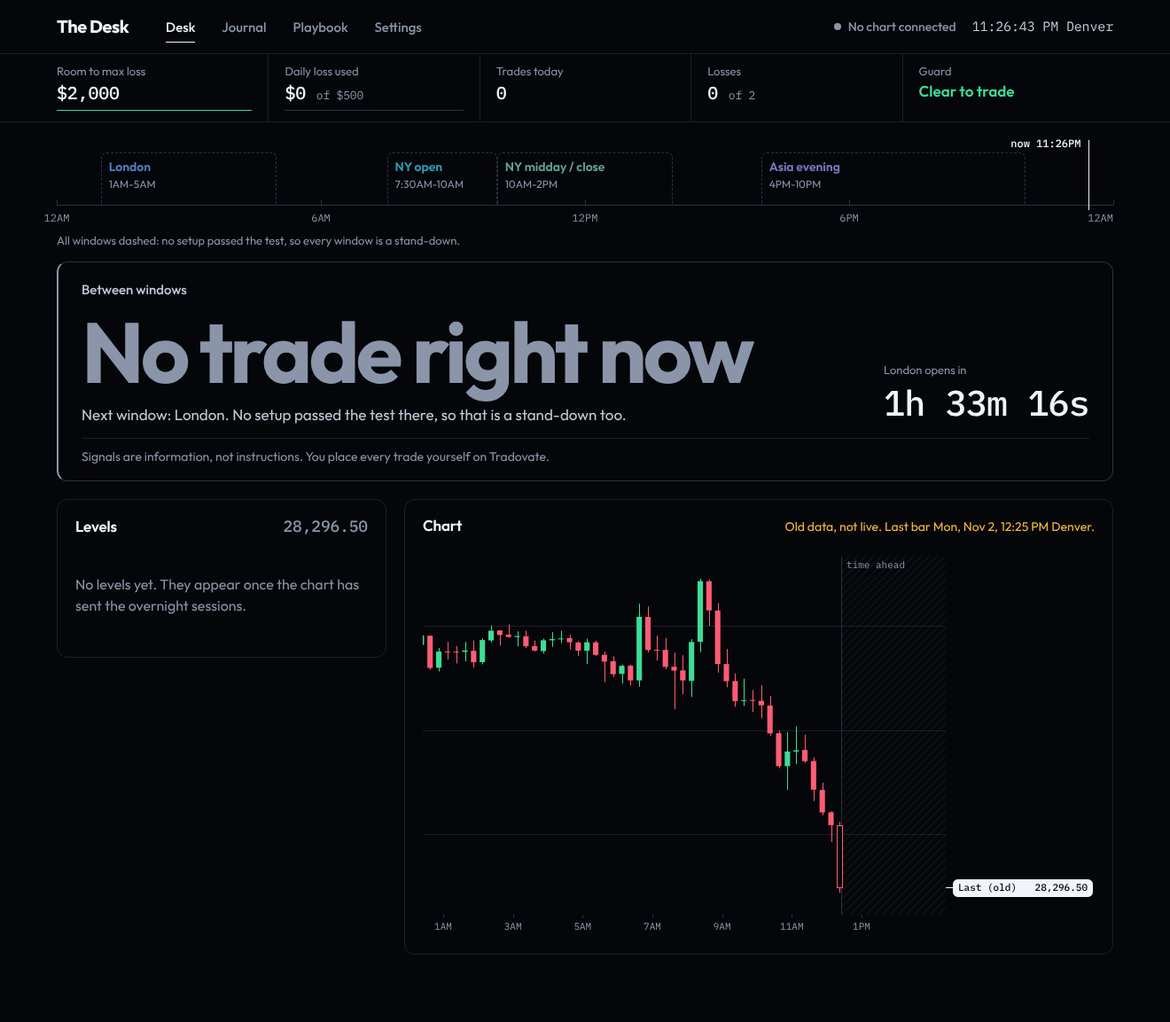
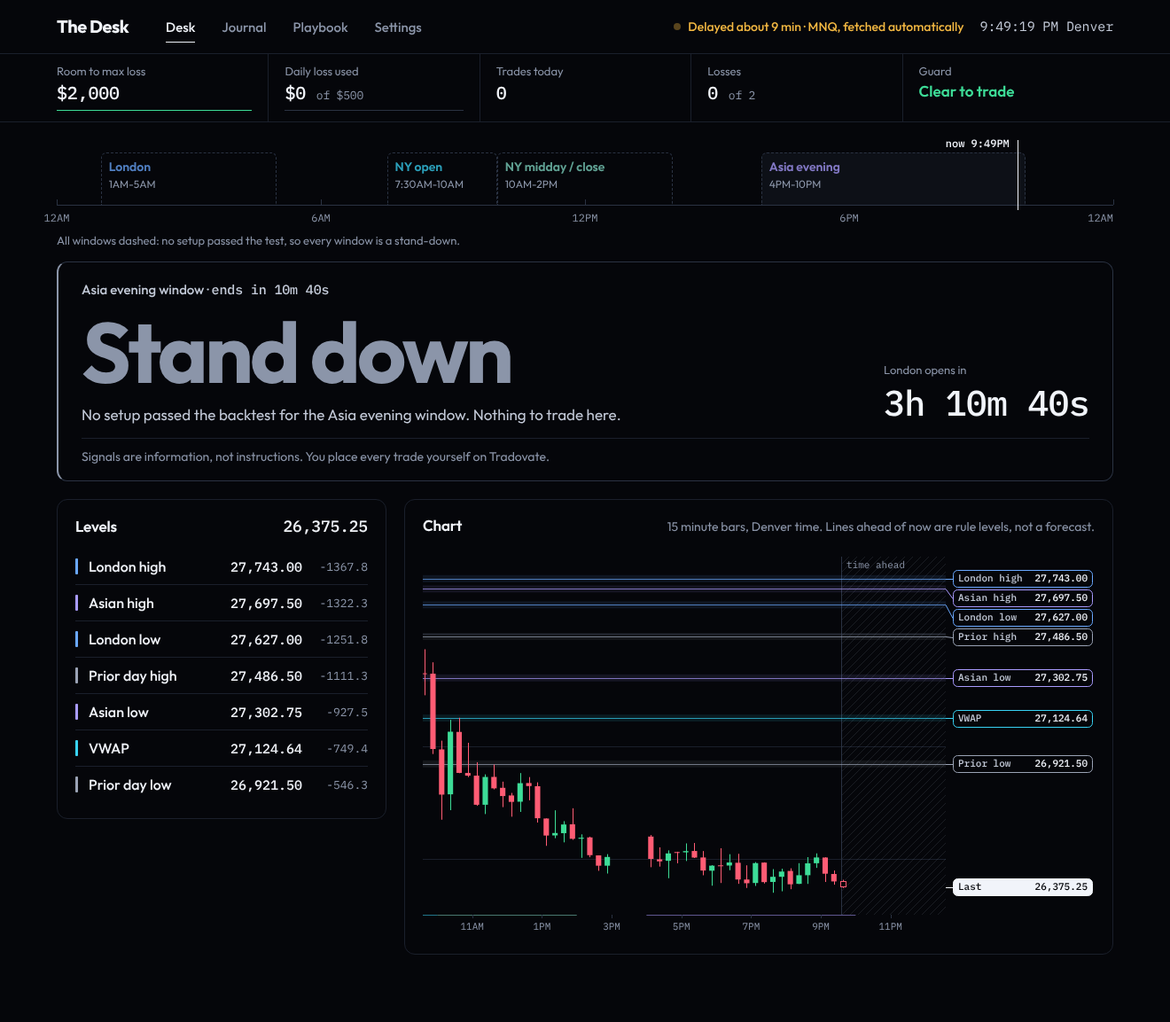
Built-in delayed price feed so The Desk runs without a chart tab
Claude-Session: https://claude.ai/code/session_01BPRsV9kxs9ZyitC2BtWsTR

diff --git a/server/index.js b/server/index.js
@@ -11,6 +11,9 @@ import { loadVerdicts } from './verdicts.js';
 import { computeGuard, checkTrade, defaultSettings, PLANS } from './guard.js';
 import { demoInput, SCENARIOS } from './demo.js';
 import { WINDOWS } from './sessions.js';
+import { fetchYahoo, YAHOO_SYMBOL } from './yahoo.js';
+
+const BRIDGE_QUIET = 180000; // the chart tab has been silent this long: fetch prices ourselves
 
 const root = path.dirname(path.dirname(fileURLToPath(import.meta.url)));
 /** Reads a saved file. A missing file is normal (first run). A file that exists but cannot be read is a problem to report, never to paper over. */
@@ -23,10 +26,10 @@ const num = (v) => (v === '' || v == null ? NaN : Number(v));
 /** Settings on disk merged over the defaults, so a new field never breaks an old file. */
 function mergeSettings(saved) {
   const d = defaultSettings(), s = saved || {};
-  return { account: { ...d.account, ...(s.account || {}), dll: { ...d.account.dll, ...(s.account?.dll || {}) } }, personal: { ...d.personal, ...(s.personal || {}) }, instrument: d.instrument };
+  return { account: { ...d.account, ...(s.account || {}), dll: { ...d.account.dll, ...(s.account?.dll || {}) } }, personal: { ...d.personal, ...(s.personal || {}) }, instrument: d.instrument, feed: { auto: s.feed?.auto !== false } };
 }
 
-export function createApp({ dataDir = path.join(root, 'data'), clock = () => Date.now() } = {}) {
+export function createApp({ dataDir = path.join(root, 'data'), clock = () => Date.now(), fetchImpl = fetch } = {}) {
   fs.mkdirSync(dataDir, { recursive: true });
   const FILES = { settings: path.join(dataDir, 'settings.json'), bars: path.join(dataDir, 'bars.json'), journal: path.join(dataDir, 'journal.json') };
   // Write to a side file first, then swap it in, so a crash mid-save cannot leave half a journal.
@@ -40,7 +43,21 @@ export function createApp({ dataDir = path.join(root, 'data'), clock = () => Dat
   const refuse = (res) => res.status(409).json({ error: `${problem()} Nothing was saved, so the file is not overwritten. Fix or move the file, then restart The Desk.` });
   const store = new BarStore();
   store.load(readSaved(FILES.bars).value);
-  const feed = { symbol: null, lastPost: 0, lastChange: 0, lastSig: '', error: null };
+  const feed = { symbol: null, source: null, lastPost: 0, lastBridge: 0, lastChange: 0, lastSig: '', error: null, fetchError: null, nextTry: 0 };
+  const noteChange = () => { const last = store.last(), sig = last ? [last.t, last.o, last.h, last.l, last.c, last.v].join() : ''; if (sig !== feed.lastSig) { feed.lastSig = sig; feed.lastChange = clock(); } };
+
+  // No chart tab feeding us? Fetch delayed MNQ bars ourselves. An open chart tab always wins.
+  async function pollPrices() {
+    const now = clock();
+    if (!settings.feed.auto || now - feed.lastBridge < BRIDGE_QUIET || now < feed.nextTry) return;
+    const first = feed.source !== 'yahoo';
+    const got = await fetchYahoo(first ? '1mo' : '1d', fetchImpl);
+    if (clock() - feed.lastBridge < BRIDGE_QUIET) return; // the chart came back while we were fetching
+    if (got.error) { feed.fetchError = got.error; feed.nextTry = clock() + 45000; return; }
+    if (feed.symbol !== YAHOO_SYMBOL) store.clear();       // never mix two sources in the levels
+    Object.assign(feed, { symbol: YAHOO_SYMBOL, source: 'yahoo', lastPost: clock(), error: null, fetchError: null });
+    store.ingest(got.rows, 5, clock()); noteChange();
+  }
   let verdicts = loadVerdicts();
 
   const app = express();
@@ -53,13 +70,12 @@ export function createApp({ dataDir = path.join(root, 'data'), clock = () => Dat
     if (!Array.isArray(bars)) return res.status(400).json({ error: 'Expected a bars array.' });
     const sym = String(symbol || '');
     if (feed.symbol && sym !== feed.symbol) store.clear(); // another contract: its prices must not mix into the levels
-    feed.lastPost = clock(); feed.symbol = sym;
+    feed.lastPost = feed.lastBridge = clock(); feed.symbol = sym; feed.source = 'chart'; feed.fetchError = null;
     if (!(resMin >= 1 && resMin <= 15 && 15 % resMin === 0)) feed.error = `Set the TradingView chart to 5 minutes (it is on "${resolution}").`;
     else if (!/NQ/i.test(feed.symbol)) feed.error = `The chart shows ${feed.symbol || 'another symbol'}. Switch it to MNQ1!.`;
     else {
       feed.error = null; store.ingest(bars, resMin, clock());
-      const last = store.last(), sig = last ? [last.t, last.o, last.h, last.l, last.c, last.v].join() : '';
-      if (sig !== feed.lastSig) { feed.lastSig = sig; feed.lastChange = clock(); } // the chart is moving
+      noteChange(); // the chart is moving
     }
     res.json({ ok: !feed.error, error: feed.error });
   });
@@ -94,6 +110,7 @@ export function createApp({ dataDir = path.join(root, 'data'), clock = () => Dat
     if (a.consistencyPct !== undefined) { const v = a.consistencyPct === null || a.consistencyPct === '' ? null : num(a.consistencyPct); if (v !== null && !(v > 0 && v <= 100)) return res.status(400).json({ error: 'Consistency must be a percent from 1 to 100, or empty for none.' }); next.account.consistencyPct = v; }
     if (a.payoutRequested != null) next.account.payoutRequested = !!a.payoutRequested;
     if (a.cycleStart !== undefined) next.account.cycleStart = /^\d{4}-\d{2}-\d{2}$/.test(a.cycleStart || '') ? a.cycleStart : null;
+    if (b.feed?.auto != null) next.feed.auto = !!b.feed.auto;
     for (const [k, label] of [['riskPerTrade', 'Risk per trade'], ['dailyStop', 'Daily stop']]) if (p[k] != null) { const v = num(p[k]); if (!(v > 0)) return res.status(400).json({ error: `${label} must be a dollar amount above zero.` }); next.personal[k] = v; }
     if (p.maxLossesPerDay != null) { const v = num(p.maxLossesPerDay); if (!(Number.isInteger(v) && v >= 1)) return res.status(400).json({ error: 'Losses per day must be a whole number, 1 or more.' }); next.personal.maxLossesPerDay = v; }
     Object.assign(settings, next); save('settings', settings);
@@ -137,15 +154,16 @@ export function createApp({ dataDir = path.join(root, 'data'), clock = () => Dat
   app.use(express.static(path.join(root, 'public')));
 
   const persistBars = () => { try { store.prune(); save('bars', store.toJSON()); } catch { /* disk hiccup: try again next minute */ } };
-  return { app, persistBars, store, journal, settings };
+  return { app, persistBars, pollPrices, store, journal, settings };
 }
 
 if (process.argv[1] === fileURLToPath(import.meta.url)) {
   const PORT = Number(process.env.PORT) || 3000;
-  const { app, persistBars } = createApp();
+  const { app, persistBars, pollPrices } = createApp();
   setInterval(persistBars, 60000).unref();
+  pollPrices(); setInterval(pollPrices, 15000).unref();
   app.listen(PORT, () => {
     console.log(`The Desk is running at http://localhost:${PORT}`);
-    console.log('Keep this window open. Open your TradingView chart (MNQ1!, 5 minutes) in your browser with the bridge extension on.');
+    console.log('Keep this window open. Prices are fetched automatically (about 10 minutes delayed). An open TradingView chart with the bridge extension is used instead when there is one.');
   });
 }

diff --git a/server/desk.js b/server/desk.js
@@ -13,17 +13,22 @@ const FROZEN_AFTER = 180000; // posts keep coming but the newest bar has not cha
 const RANK = { 'in-trade': 5, armed: 4, watching: 3, done: 2, waiting: 1, 'no-data': 0 };
 
 function feedState(now, store, feed) {
+  const source = feed?.source || null, auto = source === 'yahoo';
+  return { ...feedCore(now, store, feed, auto), source };
+}
+function feedCore(now, store, feed, auto) {
   const lastBarT = store?.lastRawT || 0, symbol = feed?.symbol || null;
-  if (!feed?.lastPost) return { status: 'off', label: 'No chart connected', symbol, delayed: false, lastBarT, error: feed?.error || null };
+  if (!feed?.lastPost) return { status: 'off', label: feed?.fetchError || 'No prices yet', symbol, delayed: false, lastBarT, error: feed?.error || null };
   const age = now - feed.lastPost;
   if (feed.error) return { status: 'error', label: feed.error, symbol, delayed: false, lastBarT, error: feed.error };
-  if (age > STALE_AFTER) return { status: 'stale', label: `Feed stalled ${age > 120000 ? Math.round(age / 60000) + ' min' : Math.round(age / 1000) + ' s'} ago`, symbol, delayed: false, lastBarT, ageSec: Math.round(age / 1000), error: null };
-  if (feed.lastChange && now - feed.lastChange > FROZEN_AFTER) return { status: 'stale', label: `Chart frozen: no change for ${Math.round((now - feed.lastChange) / MIN)} min`, symbol, delayed: false, lastBarT, ageSec: Math.round(age / 1000), error: null };
-  // The chart is connected but has sent no new bar for a long time: market shut, or the tab went to sleep.
+  if (age > (auto ? 45000 : STALE_AFTER)) return { status: 'stale', label: `Feed stalled ${age > 120000 ? Math.round(age / 60000) + ' min' : Math.round(age / 1000) + ' s'} ago`, symbol, delayed: false, lastBarT, ageSec: Math.round(age / 1000), error: null };
+  // The fetched feed only moves when a delayed bar updates, so give it longer before calling it frozen.
+  if (feed.lastChange && now - feed.lastChange > (auto ? 3 * FROZEN_AFTER : FROZEN_AFTER)) return { status: 'stale', label: `Prices frozen: no change for ${Math.round((now - feed.lastChange) / MIN)} min`, symbol, delayed: false, lastBarT, ageSec: Math.round(age / 1000), error: null };
+  // Connected but no new bar for a long time: market shut, or the tab went to sleep.
   if (lastBarT && now - lastBarT > 45 * MIN) return { status: 'stale', label: `No new bars for ${Math.round((now - lastBarT) / 36e5) >= 2 ? Math.round((now - lastBarT) / 36e5) + ' hours' : Math.round((now - lastBarT) / MIN) + ' min'}`, symbol, delayed: false, lastBarT, ageSec: Math.round(age / 1000), error: null };
   const lagMin = lastBarT ? Math.max(0, Math.round((now - lastBarT) / MIN) - (store.resMin || 5)) : 0;
-  const delayed = /_DL/i.test(symbol || '') || lagMin >= 3;
-  return { status: delayed ? 'delayed' : 'live', label: delayed ? `Delayed ${lagMin >= 3 ? 'about ' + lagMin + ' min' : 'data'}` : 'Live', symbol, delayed, delayMin: lagMin, lastBarT, ageSec: Math.round(age / 1000), error: null };
+  const delayed = auto || /_DL/i.test(symbol || '') || lagMin >= 3;
+  return { status: delayed ? 'delayed' : 'live', label: delayed ? `Delayed ${lagMin >= 3 ? 'about ' + lagMin + ' min' : 'about 10 min'}` : 'Live', symbol, delayed, delayMin: lagMin, lastBarT, ageSec: Math.round(age / 1000), error: null };
 }
 
 function standardLevels(ctx, key, price, setupLevels, since) {
@@ -50,7 +55,7 @@ function answerFor({ session, feed, guard, settings, live, evaluated, dataNow })
   if (!session.current && !live.length) return { kind: 'closed', tone: 'idle', headline: 'No trade right now', sub: next ? (next.live ? `Next window: ${next.name}.` : `Next window: ${next.name}. No setup passed the test there, so that is a stand-down too.`) : 'No window ahead.', ...countdown };
   if (!live.length) return { kind: 'standdown', tone: 'idle', headline: 'Stand down', sub: `No setup passed the backtest for the ${session.current.name} window. Nothing to trade here.`, ...countdown };
   const windowEndsAt = session.current?.end ?? null;
-  if (feed.status === 'off' || feed.status === 'stale' || feed.status === 'error') return { kind: 'nofeed', tone: 'warn', headline: feed.status === 'stale' ? 'Feed stalled' : 'No live data', sub: feed.status === 'error' ? feed.error : feed.status === 'stale' ? 'The chart has stopped sending new bars. No signal can be trusted until it is back. Check the TradingView tab.' : 'Open your TradingView chart (MNQ1!, 5 minutes) with the bridge extension on.', windowEndsAt };
+  if (feed.status === 'off' || feed.status === 'stale' || feed.status === 'error') return { kind: 'nofeed', tone: 'warn', headline: feed.status === 'stale' ? 'Feed stalled' : 'No live data', sub: feed.status === 'error' ? feed.error : feed.status === 'stale' ? 'Prices have stopped updating. No signal can be trusted until they are back.' : 'No prices are arriving. Check the internet connection, or open your TradingView chart (MNQ1!, 5 minutes) with the bridge extension on.', windowEndsAt };
 
   const best = evaluated.sort((a, b) => RANK[b.res.phase] - RANK[a.res.phase])[0];
   const { setup, res } = best, base = { kind: 'signal', setup: { id: setup.id, name: setup.name, code: setup.code }, windowEndsAt, delayed: feed.delayed };

diff --git a/test/yahoo.test.js b/test/yahoo.test.js
@@ -1,0 +1,96 @@
+// The built-in price feed: The Desk fetches delayed MNQ bars itself when no chart tab is feeding it.
+import test from 'node:test';
+import assert from 'node:assert/strict';
+import fs from 'node:fs';
+import os from 'node:os';
+import path from 'node:path';
+import { parseYahoo, yahooUrl } from '../server/yahoo.js';
+import { createApp } from '../server/index.js';
+
+const Z = (s) => Date.parse(s + 'Z');
+const NOW = Z('2026-07-15T14:20');
+// A Yahoo chart reply: 5-minute bars, some empty slots, and a last entry that is a tick time, not a bar.
+function reply(bars, extra = []) {
+  const all = [...bars, ...extra];
+  return { chart: { error: null, result: [{ meta: { symbol: 'MNQ=F' }, timestamp: all.map(b => b[0]), indicators: { quote: [{ open: all.map(b => b[1]), high: all.map(b => b[2]), low: all.map(b => b[3]), close: all.map(b => b[4]), volume: all.map(b => b[5]) }] } }] } };
+}
+const t = (iso) => Z(iso) / 1000;
+const BARS = [[t('2026-07-15T14:00'), 25000, 25010, 24990, 25005, 100], [t('2026-07-15T14:05'), 25005, 25020, 25000, 25015, 120], [t('2026-07-15T14:10'), 25015, 25030, 25010, 25025, 90]];
+
+test('parseYahoo keeps whole 5-minute bars and drops empty slots and the trailing tick', () => {
+  const rows = parseYahoo(reply(BARS, [[t('2026-07-15T14:15'), null, null, null, null, null], [t('2026-07-15T14:17') + 44, 25026, 25026, 25026, 25026, 0]]));
+  assert.deepEqual(rows, BARS);
+  assert.deepEqual(parseYahoo({ chart: { error: { code: 'Not Found' }, result: null } }), []);
+  assert.deepEqual(parseYahoo(null), []);
+  assert.match(yahooUrl('1mo'), /^https:\/\/query1\.finance\.yahoo\.com\/v8\/finance\/chart\/MNQ=F\?interval=5m&range=1mo/);
+});
+
+async function boot(fetchImpl, now = { t: NOW }) {
+  const dataDir = fs.mkdtempSync(path.join(os.tmpdir(), 'desk-'));
+  const made = createApp({ dataDir, clock: () => now.t, fetchImpl });
+  const server = await new Promise(r => { const x = made.app.listen(0, () => r(x)); });
+  const base = `http://localhost:${server.address().port}`;
+  const call = async (method, url, body) => { const r = await fetch(base + url, { method, headers: { 'Content-Type': 'application/json' }, body: body ? JSON.stringify(body) : undefined }); return { status: r.status, json: await r.json() }; };
+  return { ...made, call, now, close: () => server.close() };
+}
+const ok = (body) => async () => ({ ok: true, status: 200, json: async () => body });
+
+test('with no chart tab, the desk fetches prices itself and says where they come from', async () => {
+  const urls = [];
+  const s = await boot(async (u) => { urls.push(u); return ok(reply(BARS))(); });
+  try {
+    await s.pollPrices();
+    const st = (await s.call('GET', '/api/state')).json;
+    assert.equal(st.price, 25025);
+    assert.equal(st.feed.source, 'yahoo');
+    assert.equal(st.feed.status, 'delayed');
+    assert.match(st.feed.label, /delayed/i);
+    assert.match(urls[0], /range=1mo/);            // first fetch loads a month for the levels
+    await s.pollPrices();
+    assert.match(urls[1], /range=1d/);             // after that, just today
+  } finally { s.close(); }
+});
+
+test('an open chart tab wins: the desk does not fetch while the bridge is posting, and takes over after 3 quiet minutes', async () => {
+  let calls = 0;
+  const s = await boot(async () => { calls++; return ok(reply(BARS))(); });
+  try {
+    await s.call('POST', '/api/bars', { symbol: 'CME_MINI:MNQ1!', resolution: '5', bars: [[t('2026-07-15T14:15'), 25100, 25110, 25090, 25105, 50]] });
+    await s.pollPrices();
+    assert.equal(calls, 0);
+    assert.equal((await s.call('GET', '/api/state')).json.feed.source, 'chart');
+    s.now.t += 4 * 60000;
+    await s.pollPrices();
+    assert.equal(calls, 1);
+    const st = (await s.call('GET', '/api/state')).json;
+    assert.equal(st.feed.source, 'yahoo');
+    assert.equal(st.price, 25025);                 // the chart's bars were cleared, not mixed in
+  } finally { s.close(); }
+});
+
+test('a failed fetch never looks like fresh data, and the setting can turn fetching off', async () => {
+  let fail = false, calls = 0;
+  const s = await boot(async () => { calls++; if (fail) throw new Error('network down'); return ok(reply(BARS))(); });
+  try {
+    await s.pollPrices();
+    fail = true; s.now.t += 60000;
+    await s.pollPrices();
+    const st = (await s.call('GET', '/api/state')).json;
+    assert.equal(st.feed.status, 'stale');
+    const off = await s.call('POST', '/api/settings', { feed: { auto: false } });
+    assert.equal(off.json.settings.feed.auto, false);
+    const before = calls; await s.pollPrices();
+    assert.equal(calls, before);
+  } finally { s.close(); }
+});
+
+test('a refusal from the price service (HTTP 429) is reported, not treated as data', async () => {
+  const s = await boot(async () => ({ ok: false, status: 429, json: async () => ({}) }));
+  try {
+    await s.pollPrices();
+    const st = (await s.call('GET', '/api/state')).json;
+    assert.equal(st.price, null);
+    assert.equal(st.feed.status, 'off');
+    assert.match(st.feed.label, /429|price service/i);
+  } finally { s.close(); }
+});

diff --git a/public/app.js b/public/app.js
@@ -107,7 +107,7 @@ function drawAnswer(s) {
 // ── Levels ──
 function drawLevels(s) {
   $('price').textContent = s.price != null ? px(s.price) : '';
-  if (!s.levels.length) { $('levels').innerHTML = '<p class="empty">No levels yet. They appear once the chart has sent the overnight sessions.</p>'; return; }
+  if (!s.levels.length) { $('levels').innerHTML = '<p class="empty">No levels yet. They appear once the overnight sessions have loaded.</p>'; return; }
   let html = '', placed = false;
   for (const l of s.levels) {
     const here = !placed && s.price != null && l.price < s.price; if (here) placed = true;
@@ -150,7 +150,7 @@ async function refresh() {
     state = next; fetchedAt = Date.now();
     $('demo').hidden = !state.demo;
     $('feed').dataset.status = state.feed.status;
-    $('feedLabel').textContent = state.feed.label + (state.feed.symbol && state.feed.status !== 'error' ? ' · ' + state.feed.symbol.split(':').pop() : '');
+    $('feedLabel').textContent = state.feed.label + (state.feed.source === 'yahoo' ? ' · MNQ, fetched automatically' : state.feed.symbol && state.feed.status !== 'error' ? ' · ' + state.feed.symbol.split(':').pop() + ' from your chart' : '');
     const old = ['off', 'stale', 'error'].includes(state.feed.status) && state.feed.lastBarT;
     $('chartNote').textContent = old ? `Old data, not live. Last bar ${tzDate.format(state.feed.lastBarT)} Denver.` : '15 minute bars, Denver time. Lines ahead of now are rule levels, not a forecast.';
     $('chartNote').className = 'small ' + (old ? 'warn' : 'mute');
@@ -273,11 +273,12 @@ function fillSettings({ settings: s, plans: p }) {
   f.trailing.value = a.trailing; f.dllOn.checked = !!a.dll.on; f.dllAmount.value = a.dll.amount; f.consistencyPct.value = a.consistencyPct ?? '';
   f.useScaling.checked = !!a.scaling; f.payoutRequested.checked = !!a.payoutRequested;
   for (const k of ['riskPerTrade', 'dailyStop', 'maxLossesPerDay']) f[k].value = s.personal[k];
+  f.feedAuto.checked = s.feed?.auto !== false;
 }
 async function loadSettings() { fillSettings(await api('GET', '/api/settings')); }
 $('sForm').elements.plan.addEventListener('change', async (e) => { try { fillSettings(await api('POST', '/api/settings', { account: { plan: e.target.value } })); say('sMsg', `Switched to ${plans[e.target.value].name} defaults.`, true); refresh(); } catch (err) { say('sMsg', err.message, false); } });
 $('sForm').addEventListener('submit', async (e) => {
   e.preventDefault(); const f = e.target.elements;
-  const body = { account: { startBalance: f.startBalance.value, maxLossLimit: f.maxLossLimit.value, lockBalance: f.lockBalance.value, lockTrigger: f.lockTrigger.value, maxMicros: f.maxMicros.value, trailing: f.trailing.value, dll: { on: f.dllOn.checked, amount: f.dllAmount.value }, consistencyPct: f.consistencyPct.value === '' ? null : f.consistencyPct.value, useScaling: f.useScaling.checked, payoutRequested: f.payoutRequested.checked }, personal: { riskPerTrade: f.riskPerTrade.value, dailyStop: f.dailyStop.value, maxLossesPerDay: f.maxLossesPerDay.value } };
+  const body = { account: { startBalance: f.startBalance.value, maxLossLimit: f.maxLossLimit.value, lockBalance: f.lockBalance.value, lockTrigger: f.lockTrigger.value, maxMicros: f.maxMicros.value, trailing: f.trailing.value, dll: { on: f.dllOn.checked, amount: f.dllAmount.value }, consistencyPct: f.consistencyPct.value === '' ? null : f.consistencyPct.value, useScaling: f.useScaling.checked, payoutRequested: f.payoutRequested.checked }, personal: { riskPerTrade: f.riskPerTrade.value, dailyStop: f.dailyStop.value, maxLossesPerDay: f.maxLossesPerDay.value }, feed: { auto: f.feedAuto.checked } };
   try { fillSettings(await api('POST', '/api/settings', body)); say('sMsg', 'Saved.', true); refresh(); } catch (err) { say('sMsg', err.message, false); }
 });

diff --git a/server/yahoo.js b/server/yahoo.js
@@ -1,0 +1,34 @@
+// Built-in price feed: delayed MNQ 5-minute bars from Yahoo Finance's chart service, so The Desk
+// can run without a TradingView tab. It is an unofficial, free service: about 10 minutes behind,
+// and it can refuse or change without notice. The Desk treats any failure as "no fresh data".
+
+export const YAHOO_SYMBOL = 'YAHOO:MNQ=F';
+
+/** Address for 5-minute MNQ bars. range: '1mo' (history for the levels) or '1d' (keeping up). */
+export const yahooUrl = (range) => `https://query1.finance.yahoo.com/v8/finance/chart/MNQ=F?interval=5m&range=${range}&includePrePost=true`;
+
+/** Turns a Yahoo chart reply into rows [tSec, o, h, l, c, v]. Empty slots and the trailing tick (not a whole bar) are dropped. */
+export function parseYahoo(json) {
+  const r = json?.chart?.result?.[0], q = r?.indicators?.quote?.[0], ts = r?.timestamp;
+  if (!Array.isArray(ts) || !q) return [];
+  const rows = [];
+  for (let i = 0; i < ts.length; i++) {
+    const t = ts[i], o = q.open?.[i], h = q.high?.[i], l = q.low?.[i], c = q.close?.[i];
+    if (!Number.isFinite(t) || t % 300 !== 0) continue;
+    if (![o, h, l, c].every(x => Number.isFinite(x) && x > 0)) continue;
+    rows.push([t, o, h, l, c, Number(q.volume?.[i]) || 0]);
+  }
+  return rows.sort((a, b) => a[0] - b[0]);
+}
+
+/** One fetch. Returns { rows } or { error } in plain words; never throws. */
+export async function fetchYahoo(range, fetchImpl = fetch) {
+  try {
+    const res = await fetchImpl(yahooUrl(range), { headers: { 'User-Agent': 'Mozilla/5.0', Accept: 'application/json' }, signal: AbortSignal.timeout(10000) });
+    if (!res.ok) return { error: `The price service refused the request (HTTP ${res.status}). Trying again shortly.` };
+    const rows = parseYahoo(await res.json());
+    return rows.length ? { rows } : { error: 'The price service sent no bars. Trying again shortly.' };
+  } catch (e) {
+    return { error: `Could not reach the price service (${e?.name === 'TimeoutError' ? 'timed out' : 'no connection'}). Trying again shortly.` };
+  }
+}

diff --git a/public/index.html b/public/index.html
@@ -162,6 +162,8 @@
               <label>Risk per trade<input name="riskPerTrade" inputmode="decimal"></label>
               <label>Daily stop<input name="dailyStop" inputmode="decimal"></label>
               <label>Losses and done<input name="maxLossesPerDay" inputmode="numeric"></label>
+              <label class="check wide"><input type="checkbox" name="feedAuto"> Fetch prices automatically when no chart tab is open</label>
+              <p class="wide note">Free and about 10 minutes delayed, from Yahoo Finance. It is an unofficial service and can stop working without notice. An open TradingView chart with the bridge extension is always used instead when there is one.</p>
               <p class="wide note">Never shrink a stop to fit. If the stop is too wide for one contract at your risk, the desk says skip.</p>
               <div class="wide row"><button class="btn" type="submit">Save settings</button><span class="msg" id="sMsg" role="status"></span></div>
             </div>

diff --git a/public/chart.js b/public/chart.js
@@ -24,7 +24,7 @@ export function drawChart(canvas, state, hover) {
   const font = (px, w = 400) => `${w} ${px}px "IBM Plex Mono", ui-monospace, monospace`;
 
   const ch = state.chart, bars = [...ch.bars]; if (ch.forming) bars.push(ch.forming);
-  if (!bars.length) { g.fillStyle = C.mute; g.font = `400 15px Outfit, system-ui, sans-serif`; g.fillText('No bars yet. Open your TradingView chart with the bridge on.', 12, 30); return null; }
+  if (!bars.length) { g.fillStyle = C.mute; g.font = `400 15px Outfit, system-ui, sans-serif`; g.fillText('No bars yet. Prices load by themselves within a few seconds.', 12, 30); return null; }
   const tNow = Math.max(state.feed.lastBarT || 0, bars.at(-1)[0]) + (ch.forming ? 0 : BAR);
   const back = (narrow ? 7 : 12) * HOUR, ahead = (narrow ? 2 : 3) * HOUR;
   const t0 = tNow - back, t1 = tNow + ahead;

diff --git a/README.md b/README.md
@@ -1,7 +1,7 @@
 # The Desk
 
 One time-aware dashboard for NQ / MNQ day trading. It runs on your laptop at http://localhost:3000,
-reads your open TradingView chart through a small browser extension, and replaces NQ Desk and London Desk.
+fetches delayed MNQ prices by itself (or reads your open TradingView chart through a small browser extension), and replaces NQ Desk and London Desk.
 
 **It never places an order. Signals are information, not instructions.**
 
@@ -112,7 +112,20 @@ Email them to yourself, or use a USB stick or iCloud Drive. `data\bars.json` doe
 the chart refills it. If you skip this, the Mac starts with an empty journal and default settings,
 so the guard would show a fresh $50,000 account.
 
-## Connect TradingView in Edge (once)
+## Where the prices come from
+
+The Desk fetches MNQ prices by itself, so **no chart tab needs to be open**. They come from Yahoo
+Finance, free and about 10 minutes delayed. It is an unofficial service: it can refuse requests or
+stop working without notice, and when it does The Desk says "Feed stalled" and shows no signal.
+The top right of the page says "fetched automatically" when this feed is in use.
+
+If a TradingView chart with the bridge extension is open, The Desk uses that instead (it says
+"from your chart"), and switches back to fetching 3 minutes after the tab goes quiet. The two are
+never mixed. You can turn the automatic fetch off in Settings.
+
+The Mac still has to be on and awake, with The Desk running in Terminal.
+
+## Connect TradingView in Edge (optional)
 
 1. In Edge go to `edge://extensions` and switch on **Developer mode**.
 2. If the old "NQ Desk Bridge" is listed, click **Remove** on it.
